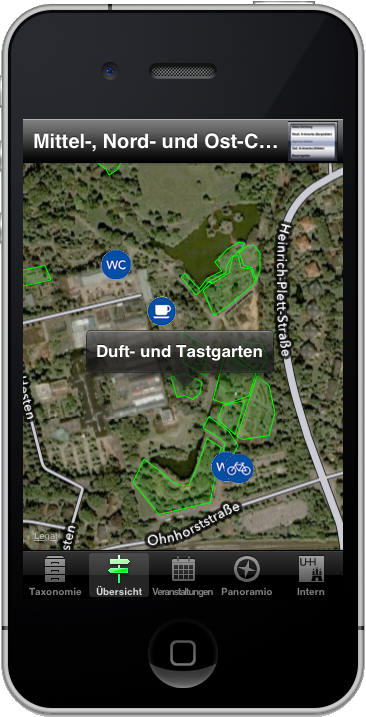
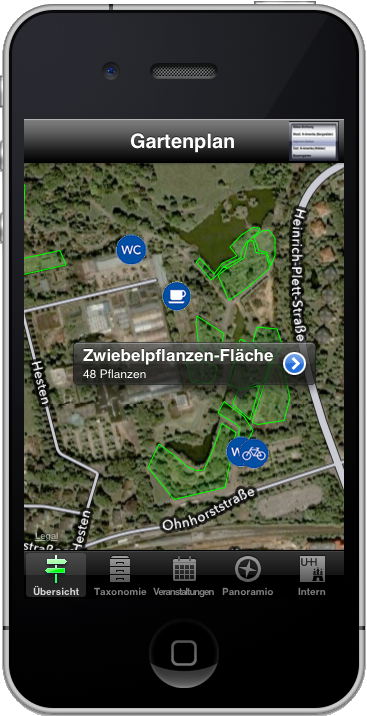
again commit

diff --git a/Resources/module/model.js b/Resources/module/model.js
@@ -230,7 +230,6 @@ exports.getArtenByBereich = function(_bereich, _callback) {
 		bereich = _bereich;
 	}
 	var q = 'SELECT * FROM flora WHERE bereich LIKE "' + bereich + '" GROUP BY gattung,art,subart ORDER BY art';
-	console.log(q);
 	var resultSet = link.execute(q);
 	var results = [];
 	while (resultSet.isValidRow()) {
@@ -243,7 +242,10 @@ exports.getArtenByBereich = function(_bereich, _callback) {
 		resultSet.next();
 	}
 	resultSet.close();
-	_callback(results);
+	if (_callback && typeof (_callback) == 'function')
+		_callback(results);
+	else
+		return results
 };
 
 exports.savePOI = function(_poi) {

diff --git a/Resources/module/ui.tabgroup.js b/Resources/module/ui.tabgroup.js
@@ -32,11 +32,10 @@ exports.create = function() {
 		title : 'Panoramio',
 		window : require('module/panoramio.window').create('')
 	});
-	tabGroup.addTab(taxoTab);
 	tabGroup.addTab(pickerTab);
+	tabGroup.addTab(taxoTab);
 	tabGroup.addTab(calTab);
 	tabGroup.addTab(mapTab);
 	tabGroup.addTab(uhhTab);
 	tabGroup.open();
-	tabGroup.setActiveTab(1);
 }

diff --git a/Resources/module/taxo.allfamilies.window.js b/Resources/module/taxo.allfamilies.window.js
@@ -80,6 +80,7 @@ exports.create = function() {
 		getFamilien();
 	})
 	self.tv.addEventListener('click', function(_e) {
+		console.log(_e.rowData);
 		if (_e.rowData.familie && _e.rowData.hasChild === true)
 			self.tab.open(require('module/taxo.gattungoffamily.window').create(_e.rowData.familie));
 		if (_e.rowData.data)
